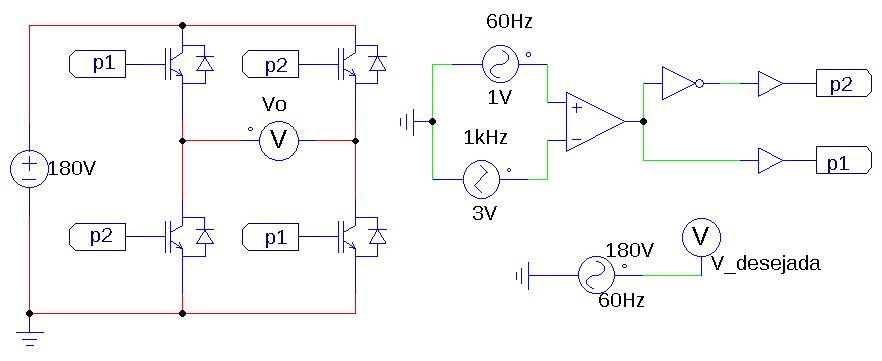
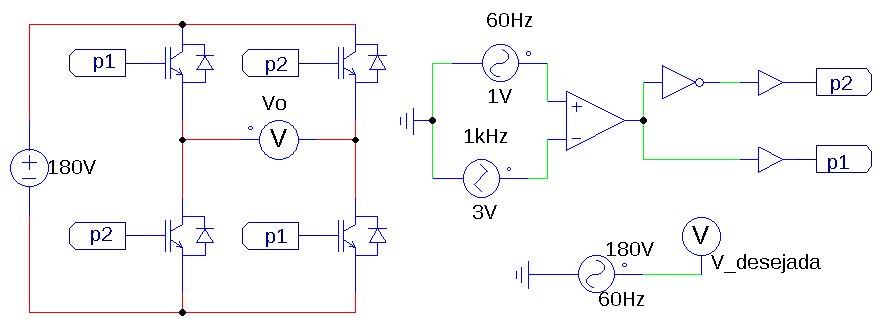
rotate image, simulated conventional converter with bipolar inverter

diff --git a/abntex2-modelo-trabalho-academico-TCC-EngaEletrica.tex b/abntex2-modelo-trabalho-academico-TCC-EngaEletrica.tex
@@ -78,6 +78,7 @@
 \usepackage[table,xcdraw]{xcolor}
 \usepackage[bottom]{footmisc}
 \usepackage{listings}
+\usepackage[figuresright]{rotating}
 
 % ---
 % Pacotes adicionais, usados apenas no âmbito do Modelo Canônico do abnteX2
@@ -906,7 +907,7 @@ O circuito que representa o painel fotovoltaico pode ser visto na figura~\ref{fi
 \end{figure}
 
 
-\section{Conversores Estáticos CC/CC}
+\section{Conversores Estáticos CC/CC} \label{sec:met_conv_cc}
 
 \subsection{Conversor Ćuk Convencional}
 
@@ -1014,7 +1015,7 @@ Percebe-se que o pwm de cada braço, apesar de apresentar o mesmo ciclo de traba
 	\end{center}
 \end{figure}
 
-\section{Conversores CC/CA - Inversores tipo fonte de tensão (\textit{VSI})}
+\section{Conversores CC/CA - Inversores tipo fonte de tensão (\textit{VSI})}\label{sec:met_conv_cc_ca}
 
 \subsection{Inversor PWM Bipolar}
 
@@ -1041,7 +1042,7 @@ Para o sinal de portadora foi utilizada uma fonte de sinal triangular de 1kHz e 
 		\label{fig:VSI_uni_circ}
 \end{figure}
 
-\section{Conversor Integrado (CC/CA)}
+\section{Conversor Integrado (CC/CA)}\label{sec:met_conv_integ}
 \subsection{Conversor Ćuk Integrado}
 
 O conversor cuk integrado é uma versão simplificada do conversor convencional, descrito na seção~\ref{ssec:cuk_conv_met}, do qual são retirados os componentes ao se retirar os componentes $C2$, $L2$ e $D$, conectado a um inversor, os quais também já foram descritos.
@@ -1056,7 +1057,7 @@ Sendo assim, o circuito obtido para este conversor, sem a definição do control
 	\end{center}
 \end{figure}
 
-\section{Rastreador de ponto de máxima potência (\textit{MPPT})}
+\section{Rastreador de ponto de máxima potência (\textit{MPPT})}\label{sec:met_mppt}
 
 O algoritmo de rastreamento de ponto de máxima potência do painel fotovoltaico escolhido foi o \textit{P\&O}. Foi desenvolvida uma rotina em C, que segue o fluxograma da figura~\ref{fig:PeO_Flux} utilizando o \textbf{C Block}, um segurador de ordem zero com frequência de amostragem de $500Hz$ e um comparador de tensão ao qual é conectado uma fonte de sinal triangular de $15kHz$ e $1V$ de amplitude, a portadora.
 
@@ -1072,7 +1073,7 @@ Para facilitar a inserção da MPPT nos circuitos, foi montado um sub-circuito, 
 	\end{center}
 \end{figure}
 
-\section{Filtro}
+\section{Filtro}\label{sec:met_filt}
 
 Os componentes do filtro são encontrados a partir das equações~\ref{eq:lcl_zb} a \ref{eq:lcl_rf}.
 
@@ -1098,17 +1099,19 @@ O filtro resultante pode ser visto na figura~\ref{fig:lcl_filter_impl}, com o ca
 	\end{center}
 \end{figure}
 
-\subsection{Conjuntos Painel-Conversor CC/CC-Inversor-Filtro}
+\section{Conjuntos Painel-Conversor CC/CC-Inversor-Filtro}
 
-Nessa seção são apresentados so circuitos dos sistemas compostos pela conexão dos estágios projetados até aqui. Os circuitos serão expostos nas figuras~\ref{fig:sys_cuk_conv_bip} a ~\ref{fig:sys_cuk_int_uni} e no anexo~\ref{anex:circ_images}, com maior qualidade.
+Nessa seção são apresentados os circuitos dos sistemas compostos pela conexão do painel fotovoltaico aos conversores projetados nas seções~\ref{sec:met_conv_cc} e \ref{sec:met_conv_integ}, com o chaveamento controlado pelo algoritmo de MPPT (seção~\ref{sec:met_mppt}), interligados aos inversores e ao filtro das seções~\ref{sec:met_conv_cc_ca} e \ref{sec:met_filt}, respectivamente.
+
+Os circuitos serão expostos nas figuras~\ref{fig:sys_cuk_conv_bip} a ~\ref{fig:sys_cuk_int_uni} e no anexo~\ref{anex:circ_images}, com maior qualidade.
 % \subsubsection{Conversor Ćuk Convencional com Inversor VSI Bipolar}
-% \begin{figure}[htb]%
-% 	\begin{center}%
-% 		\includegraphics[width=0.55 \linewidth]{lcl_filter_psim}
-% 		\caption{Filtro LCL implementado}
-% 		\label{fig:sys_cuk_conv_bip}
-% 	\end{center}
-% \end{figure}
+\begin{figure}[htb]%
+	\captionsetup{justification=centering}
+	\centering
+		\includegraphics[width=0.7 \linewidth]{comp_conv_circ_clean}
+		\caption{Circuito implementado para o conversor cuk convencional com inversor bipolar}
+		\label{fig:comp_conv_circ_clean}
+\end{figure}
 % \subsubsection{Conversor Ćuk Entrelaçado de Duas Fases com Inversor VSI Bipolar}
 % \begin{figure}[htb]%
 % 	\begin{center}%
@@ -1213,7 +1216,7 @@ A partir da simulação do circuito da figura~\ref{fig:cuk_conv_psim_circ} no PS
 
 \begin{figure}[htbp]%
 	\centering
-		\includegraphics[width=0.8 \linewidth]{cuk_conv_power_sign}
+		\includegraphics[width= 0.8 \linewidth]{cuk_conv_power_sign}
 		\caption{Potência na entrada e saída do conversor cuk convencional}
 		\label{fig:cuk_conv_power_sign}
 \end{figure}
@@ -1446,15 +1449,15 @@ double delta_v = v-old_v;
 
 if(delta_p > 00) {
     if(delta_v > 0) {
-     temp -= 0.01; //reduz d
+     temp -= 0.01;
     } else if (delta_v  < 0) {
-     temp += 0.01; //aumenta d
+     temp += 0.01;
     }
 } else if (delta_p < 0) {
     if(delta_v > 0) {
-     temp += 0.01; //reduz d
+     temp += 0.01;
     } else if (delta_v < 0) {
-     temp -= 0.01; //aumenta d
+     temp -= 0.01;
     }
 } else {
   temp = temp;
@@ -1471,7 +1474,26 @@ old_p = p;
 
 \chapter{Circuitos dos Inversores Implementados no PSIM}
 
-\HUGE{FIGURA FIGURA}
+\begin{sidewaysfigure}
+	\centering
+	\includegraphics[width=\linewidth]{comp_conv_circ_clean}
+	\caption{Circuito do conversor cuk convencional com inversor bipolar implementado}	
+\end{sidewaysfigure}
+
+% \vspace{-150pt}
+% \begin{figure}[htb]
+% 	\centering
+% 	% \includegraphics[angle=90, scale=0.5]{comp_conv_circ_clean}
+% 	\rotatebox{90}{\includegraphics[width=0.9\textheight]{comp_conv_circ_clean}}
+% 	\caption{test}	
+% \end{figure}
+
+% \begin{figure}[p]
+% 	\makebox[\linewidth]{
+% 			\includegraphics[width=1.3\linewidth]{comp_conv_circ_clean}
+% 	}
+% 	\caption{Sequence diagram}
+% \end{figure}
 \end{anexosenv}
 
 
